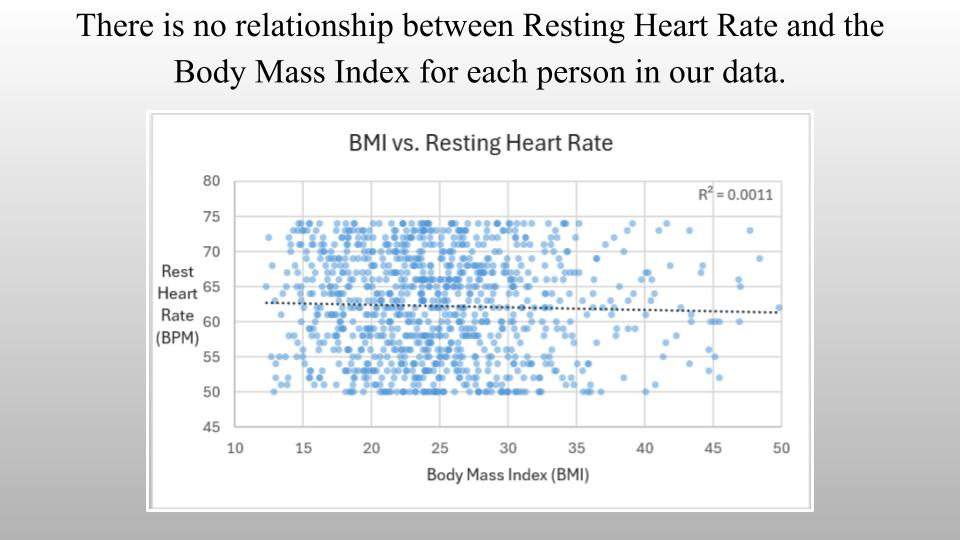
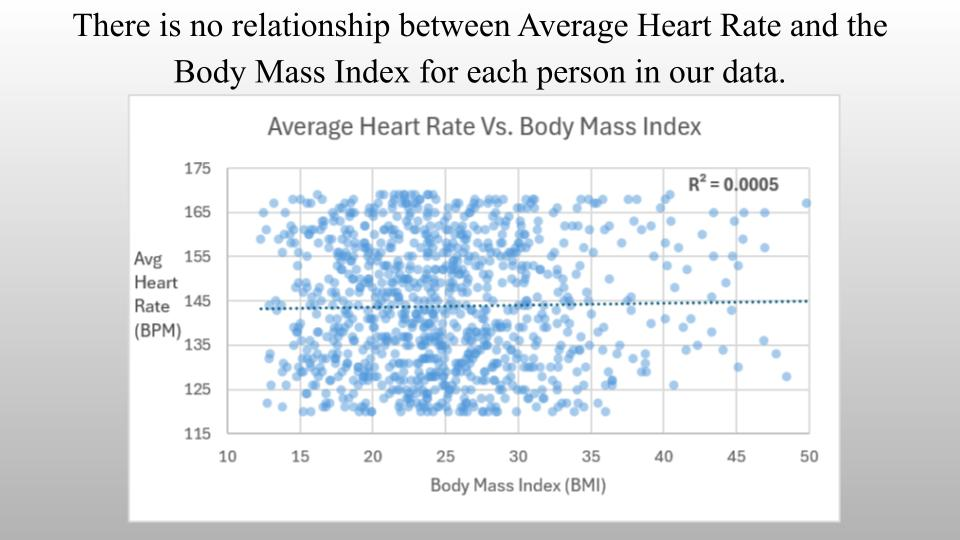
Fixed

Changed region(s): [[0.125, 0.2074, 0.875, 0.9778], [0.0625, 0.0, 0.9375, 0.0889]]

diff --git a/docs/posts/Data Visualization Team Project/dataVisProject.html b/docs/posts/Data Visualization Team Project/dataVisProject.html
@@ -196,12 +196,12 @@ ul.task-list li input[type="checkbox"] {
 <p><img src="Slide 1.jpg" class="img-fluid"></p>
 <p><em>Question 1 project chart</em></p>
 </section>
-<section id="question-2-is-there-a-pattern-between-bmi-and-resting-heart-rate" class="level2">
-<h2 class="anchored" data-anchor-id="question-2-is-there-a-pattern-between-bmi-and-resting-heart-rate">Question 2: Is There a Pattern Between BMI and Resting Heart Rate?</h2>
-<p><strong>Why we chose this question:</strong> We wanted to see whether people with a higher BMI have a higher resting heart rate, since a heavier body might make the heart work harder even at rest.</p>
-<p><strong>How we used Excel:</strong> We used the BMI and Resting_BPM columns to create a scatter plot, with BMI on the x-axis and resting heart rate on the y-axis, because both variables are continuous. We added a trendline and displayed the R² value to measure how much of the variation in resting heart rate BMI explains. We then formatted the chart by adjusting the axes, adding titles, and shrinking and adding transparency to the markers so the overlapping points were easier to see.</p>
-<p><strong>What we found:</strong> We concluded there is no meaningful relationship between BMI and resting heart rate in our dataset. The points form an evenly spread cloud, and the trendline is almost flat, with an R² value of 0.0011, meaning BMI explains only about 0.1% of the variation in resting heart rate. Average resting heart rate stayed around 62 BPM across all BMI levels.</p>
-<p><strong>How the slide was developed:</strong> We placed the scatter plot from Excel on the slide and wrote an assertion statement at the top: “There is no relationship between Resting Heart Rate and the Body Mass Index for each person in our data.” The chart serves as the evidence, with the flat trendline and R² value showing the result.</p>
+<section id="question-2-is-there-a-pattern-between-bmi-and-average-heart-rate" class="level2">
+<h2 class="anchored" data-anchor-id="question-2-is-there-a-pattern-between-bmi-and-average-heart-rate">Question 2: Is There a Pattern Between BMI and Average Heart Rate?</h2>
+<p><strong>Why we chose this question:</strong> We wanted to see whether people with a higher BMI have a higher average heart rate, since a heavier body might make the heart work harder.</p>
+<p><strong>How we used Excel:</strong> We used the BMI and Avg_BPM columns to create a scatter plot, with BMI on the x-axis and average heart rate on the y-axis, because both variables are continuous. We added a trendline and displayed the R² value to measure how much of the variation in average heart rate BMI explains. We then formatted the chart by adjusting the axes, adding titles, and shrinking and adding transparency to the markers so the overlapping points were easier to see.</p>
+<p><strong>What we found:</strong> We concluded there is no meaningful relationship between BMI and average heart rate in our dataset. The points form an evenly spread cloud, and the trendline is almost flat, with an R² value of 0.0005, meaning BMI explains only about 0.05% of the variation in average heart rate.</p>
+<p><strong>How the slide was developed:</strong> We placed the scatter plot from Excel on the slide and wrote an assertion statement at the top: “There is no relationship between Average Heart Rate and the Body Mass Index for each person in our data.” The chart serves as the evidence, with the flat trendline and R² value showing the result.</p>
 <p><img src="Slide 2.jpg" class="img-fluid"></p>
 <p><em>Question 2 project chart</em></p>
 </section>

diff --git a/docs/index.html b/docs/index.html
@@ -166,10 +166,11 @@ ul.task-list li input[type="checkbox"] {
 </div>
   </div>
   <div class="about-contents"><main class="content" id="quarto-document-content">
-<p>Hey, I’m Garrett. I’m a sophomore studying Industrial Engineering at the University of Arkansas, with minors in Finance and Engineering Management. I’m drawn to the place where engineering meets people: figuring out how systems, organizations, and decisions can work better, and then leading the effort to make it happen.</p>
-<p>Most of my leadership experience comes from the outdoors. I’m an Eagle Scout, and in Summer 2026 I worked as a Ranger at Philmont Scout Ranch in New Mexico. There I led and mentored crews through the backcountry, taught wilderness skills, and made risk-management calls when plans didn’t go the way we expected. That summer taught me more about leading real people through real problems than any classroom has.</p>
-<p>On the analytical side, I completed a finance internship with Service Academy Capital Management. I researched markets, built portfolios, and presented on how AI is transforming the financial industry. I’m especially interested in operations research, systems analysis, and federal and defense-related work, where good analysis directly shapes big decisions.</p>
-<p>Outside of school and work, I’m usually backpacking, camping, or spending time with friends. This site collects my projects, experience, and resume, so feel free to look around or reach out.</p>
+<p>Hey, I’m Garrett. I’m a sophomore studying Industrial Engineering at the University of Arkansas, with minors in Finance and Engineering Management. I’m drawn to the point where engineering meets people: making systems, organizations, and decisions work better, and then leading the effort to get there.</p>
+<p>My leadership was shaped in the backcountry. I’m an Eagle Scout, and in summer 2026 I served as a Ranger at Philmont Scout Ranch in New Mexico. There I led and mentored crews in the backcountry, taught wilderness skills, and made risk-management calls when plans fell apart. Out there, I learned that leadership isn’t about authority. It’s about service, and about being trusted with people who are counting on you to get it right.</p>
+<p>On the analytical side, I completed a finance internship with Service Academy Capital Management, where I researched markets, built portfolios, and presented on how AI is reshaping the financial industry. Going forward, I’m focused on operations research, systems analysis, and federal and defense work, where rigorous analysis shapes decisions that affect a lot of people.</p>
+<p>I hold myself to a high standard in my work and in who I am. I’ve been given real opportunities, and I intend to make the most of them: to build a career that matters, to lead people well, and to leave every place I go better than I found it.</p>
+<p>Outside of school and work, you’ll usually find me backpacking, camping, or spending time with friends. This site collects my projects, experience, and resume, so feel free to look around or reach out.</p>
 
 
 </main></div>

diff --git a/docs/projects.html b/docs/projects.html
@@ -227,7 +227,7 @@ window.Quarto = {
 
 <div class="quarto-listing quarto-listing-container-grid" id="listing-listing">
 <div class="list grid quarto-listing-cols-3">
-<div class="g-col-1" data-index="0" data-listing-date-sort="1794549600000" data-listing-file-modified-sort="1794633060628" data-listing-date-modified-sort="NaN" data-listing-reading-time-sort="5" data-listing-word-count-sort="865">
+<div class="g-col-1" data-index="0" data-listing-date-sort="1794549600000" data-listing-file-modified-sort="1795444544802" data-listing-date-modified-sort="NaN" data-listing-reading-time-sort="5" data-listing-word-count-sort="850">
 <a href="./posts/Data Visualization Team Project/dataVisProject.html" class="quarto-grid-link">
 <div class="quarto-grid-item card h-100 card-left">
 <p class="card-img-top">
